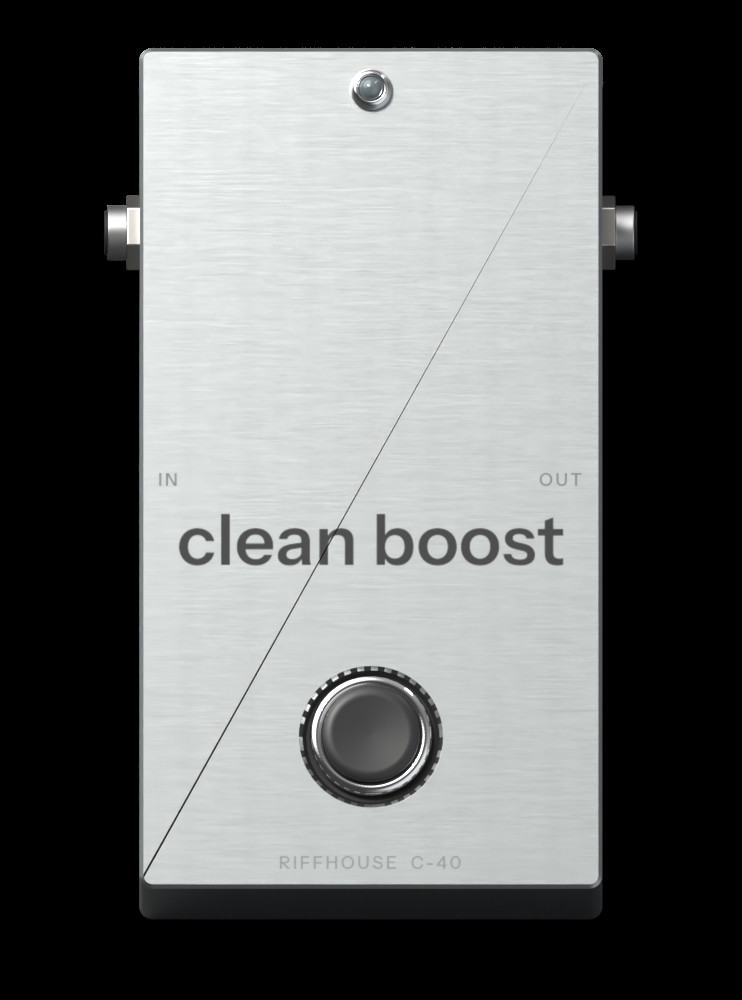
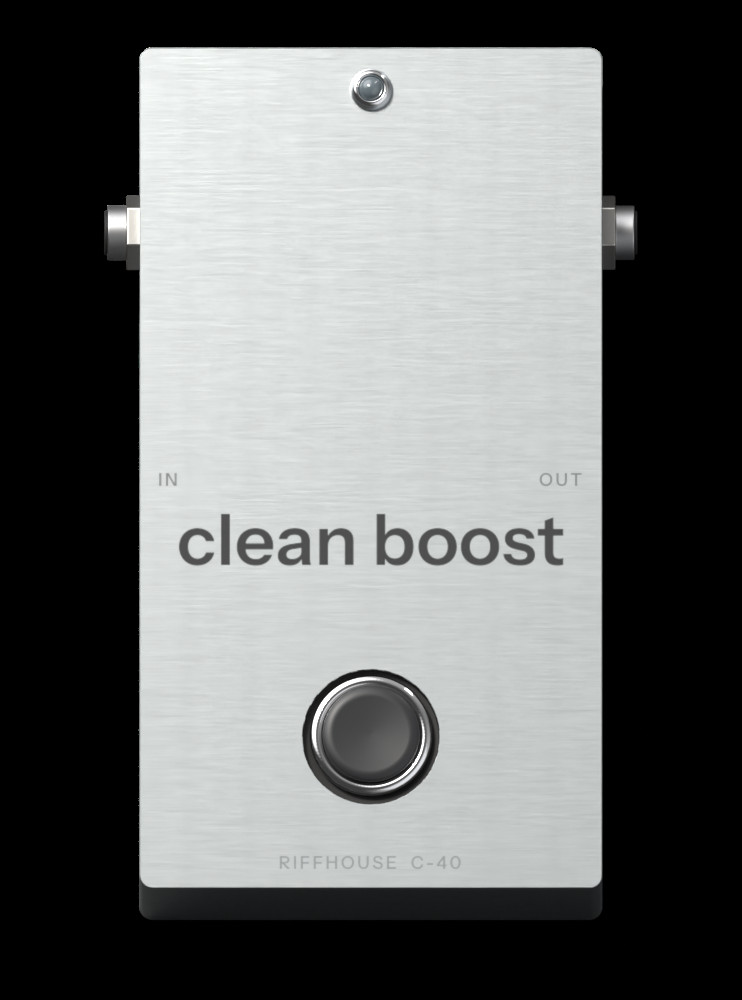
Pedal pictures: no hairline across three boxes; softer switch shadow
The machined pedals (clean boost, jet flanger, shimmer) had a straight
hairline across the top: cutting the switch hole through one big face
left long thin triangles that the renderer showed. The renderer now cuts
the box into small cells first (gear3d common.grid), and the three
pictures are rendered again.

The power toggle's shadow is drawn as soft round pools instead of an
offset copy of the lever, so it has no hard edge.

diff --git a/src/ui/Gear.cpp b/src/ui/Gear.cpp
@@ -2322,29 +2322,20 @@ void drawAmpJewel (juce::Graphics& g, const AmpLayout& l, const AmpDesign& d, bo
         const float dir = on ? -1.0f : 1.0f;
         const float len = 17.0f, baseW = 4.4f, neckW = 3.3f, ball = 4.5f;
         const juce::Point<float> tip (c.x + 0.4f, c.y + dir * len);
-        auto rod = [&] (juce::Point<float> o)
+            // its shadow on the bush and the panel: soft round pools along the rod and under the ball,
+        // each fading to nothing, so the shadow has no edge anywhere
         {
-            juce::Path p;
-            const float ny = tip.y + o.y - dir * ball * 0.6f;
-            p.startNewSubPath (c.x + o.x - baseW * 0.5f, c.y + o.y);
-            p.lineTo (tip.x + o.x - neckW * 0.5f, ny);
-            p.lineTo (tip.x + o.x + neckW * 0.5f, ny);
-            p.lineTo (c.x + o.x + baseW * 0.5f, c.y + o.y);
-            p.closeSubPath();
-            p.addEllipse (R (ball * 2.0f, ball * 2.0f * art::squash).withCentre (tip + o));
-            p.setUsingNonZeroWinding (true);
-            return p;
-        };
-        // its shadow on the bush and the panel, soft: three widening passes of a faint shade
-        {
-            const auto sp = rod ({ 2.4f, 3.2f });
-            for (int i = 0; i < 3; ++i)
+            const juce::Point<float> off (2.6f, 3.4f);
+            for (int i = 0; i <= 6; ++i)
             {
-                g.setColour (juce::Colours::black.withAlpha (0.08f));
-                g.strokePath (sp, juce::PathStrokeType (1.0f + 1.6f * (float) i, juce::PathStrokeType::curved, juce::PathStrokeType::rounded));
+                const float t = (float) i / 6.0f;
+                const auto p = c + (tip - c) * t + off;
+                const float rad = (i == 6 ? ball * 1.9f : 3.6f + 1.4f * t);
+                juce::ColourGradient pool (juce::Colours::black.withAlpha (i == 6 ? 0.26f : 0.1f), p.x, p.y,
+                                           juce::Colours::black.withAlpha (0.0f), p.x + rad, p.y, true);
+                g.setGradientFill (pool);
+                g.fillEllipse (R (rad * 2.0f, rad * 2.0f).withCentre (p));
             }
-            g.setColour (juce::Colours::black.withAlpha (0.16f));
-            g.fillPath (sp);
         }
         // the rod: round across, so a bright streak toward the light and a dark edge away from it
         {

diff --git a/tools/gear3d/common.py b/tools/gear3d/common.py
@@ -501,6 +501,27 @@ def cut(body, cutter, material_from_cutter=True):
     return body
 
 
+def grid(ob, step):
+    """Cut a mesh into a grid of cells about `step` across, flat faces and all.
+
+    A hole cut through one big face leaves long thin triangles running from the hole to the far
+    corners, and the renderer shows the edge between two of them as a hairline straight across the
+    top of the box. Cut into small cells first, the hole only touches the cells round it."""
+    bm = bmesh.new()
+    bm.from_mesh(ob.data)
+    lo = Vector([min(v.co[k] for v in bm.verts) for k in range(3)])
+    hi = Vector([max(v.co[k] for v in bm.verts) for k in range(3)])
+    for k in (0, 1):
+        n = max(1, int((hi[k] - lo[k]) / step))
+        for i in range(1, n):
+            co = Vector((0, 0, 0)); co[k] = lo[k] + (hi[k] - lo[k]) * i / n
+            no = Vector((0, 0, 0)); no[k] = 1.0
+            bmesh.ops.bisect_plane(bm, geom=bm.verts[:] + bm.edges[:] + bm.faces[:], plane_co=co, plane_no=no)
+    bm.to_mesh(ob.data)
+    bm.free()
+    return ob
+
+
 def stand(ob, point, normal, turn=0.0):
     """Stand a part built along +z on a surface at `point`, facing along `normal`."""
     q = Vector((0, 0, 1)).rotation_difference(normal)

diff --git a/tools/gear3d/pedals.py b/tools/gear3d/pedals.py
@@ -305,6 +305,7 @@ def build(p, gear_dir, out_dir, samples, scale):
         bodies.append(body)
         bore = fs * 0.5 + 3 * u
         cyl = c.prism("bore", 64, bore, H - 0.14, H + 1, parts["black"], at=st.at(fx + fw / 2, fy + fh / 2) - c.Vector((0, 0, H)), smooth=True)
+        c.grid(body, 0.35)  # small cells, so the hole leaves no hairline across the top (see common.grid)
         c.cut(body, cyl)
         mod = body.modifiers.new("chamfer", "BEVEL")
         mod.width, mod.segments, mod.limit_method, mod.angle_limit = 0.17, 1, "ANGLE", math.radians(60)
